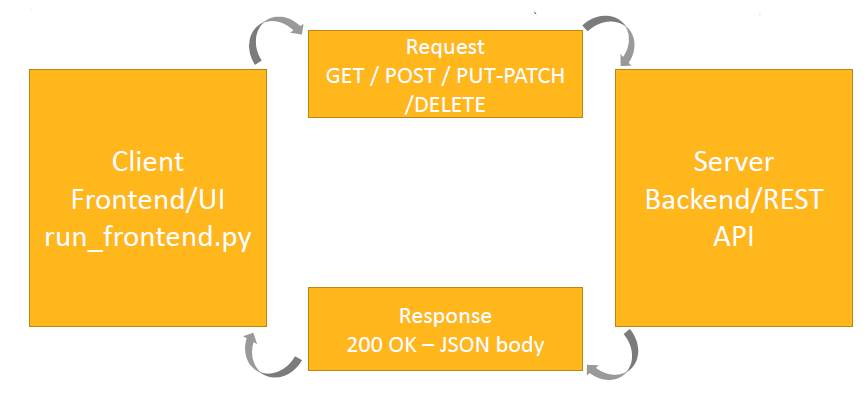
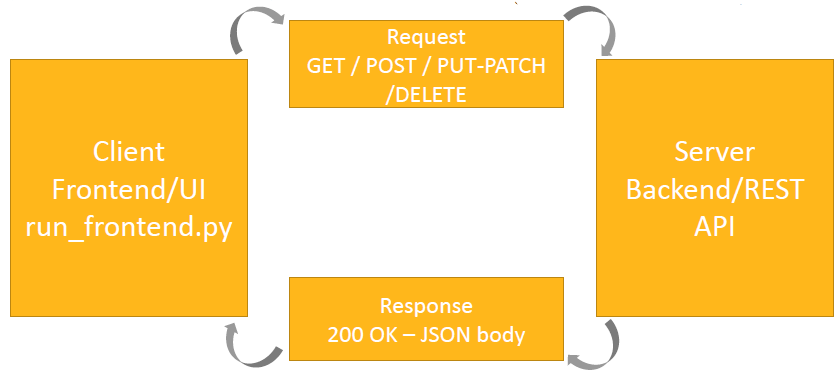
fix picture

Changed region(s): [[0.0, 0.0, 1.0, 0.9688], [0.0931, 0.3438, 0.2172, 0.4375], [0.8067, 0.5625, 0.8998, 0.625]]

diff --git a/doc/source/getting_started/architecture.rst b/doc/source/getting_started/architecture.rst
@@ -71,9 +71,9 @@ Backend and frontend are two separate processes that communicate only through HT
 The backend is a Python process that owns the AEDT connection. it defines the ``ToolkitBackend`` class that lets
 users manage and interact with the AEDT session.
 The backend/frontend separation allows to run headlessly and it brings several advantages:
-- Run backend server only
-- Call backend directly in Python
-- Integration into CI/CD pipelines
+* Run backend server only
+* Call backend directly in Python
+* Integration into CI/CD pipelines
 
 Because the backend exposes all functionalities as APIs, the frontend is just one way to interact with the backend.
 User can choose: